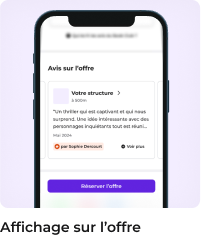
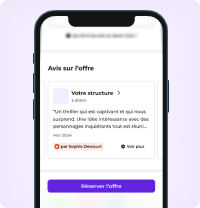
(PC-43101)[PRO] feat: offer recommendation changes.

Changed region(s): [[0.0, 0.0288, 0.87, 1.0], [0.24, 0.2596, 0.48, 0.3462]]

diff --git a/pro/src/pages/IndividualOffers/IndividualOffersContainer/components/IndividualOfferColumns/components/IndividualActionsCells/IndividualActionsCells.tsx b/pro/src/pages/IndividualOffers/IndividualOffersContainer/components/IndividualOfferColumns/components/IndividualActionsCells/IndividualActionsCells.tsx
@@ -1,3 +1,4 @@
+import { getOfferEnhancementCardsVisibility } from 'commons/core/Offers/utils/getOfferEnhancementCardsVisibility'
 import { useActiveFeature } from 'commons/hooks/useActiveFeature'
[1 lines of base64/hex data omitted]
 import { Button } from 'design-system/Button/Button'
@@ -99,6 +100,9 @@ export const IndividualActionsCells = ({
     setIsConfirmDialogReplaceHeadlineOfferOpen(false)
   }, [])
 
+  const { shouldDisplayRecommendationCard, shouldDisplayHeadlineCard } =
+    getOfferEnhancementCardsVisibility(offer)
+
   const apiFilters = computeIndividualApiFilters({
     finalSearchFilters,
     selectedVenueId: selectedPartnerVenue.id,
@@ -135,6 +139,12 @@ export const IndividualActionsCells = ({
   }
 
   async function onClickAddHeadlineOffer() {
+    if (!shouldDisplayHeadlineCard) {
+      snackBar.error(
+        'Seules les offres au statut « Publié » peuvent être mises à la une.'
+      )
+      return
+    }
     if (isHeadline) {
       await removeHeadlineOffer({ offerId: offer.id })
     } else if (offer.thumbUrl) {
@@ -152,11 +162,24 @@ export const IndividualActionsCells = ({
   }
 
   function onClickAddProAdvice() {
-    logEvent(EngagementEvents.HAS_MADE_RECOMMENDATION, {
-      offerId: offer.id,
-      action: offer.hasProAdvice ? 'edited' : 'started',
-    })
-    setIsProAdviceOpen(true)
+    if (!shouldDisplayRecommendationCard) {
+      let errorMessage =
+        'Votre offre doit être publiée pour faire cette action.'
+      if (offer.status === OfferStatus.REJECTED) {
+        errorMessage =
+          "Offre non-conforme : aucune modification n'est possible dans ce cas. Veuillez créer une nouvelle offre."
+      } else if (offer.status === OfferStatus.PENDING) {
+        errorMessage =
+          "Offre en cours de vérification : aucune modification n'est possible durant la vérification d’éligibilité."
+      }
+      snackBar.error(errorMessage)
+    } else {
+      logEvent(EngagementEvents.HAS_MADE_RECOMMENDATION, {
+        offerId: offer.id,
+        action: offer.hasProAdvice ? 'edited' : 'started',
+      })
+      setIsProAdviceOpen(true)
+    }
   }
 
   const isActive = offer.status === OfferStatus.ACTIVE
@@ -186,7 +209,11 @@ export const IndividualActionsCells = ({
               color={isHeadline ? ButtonColor.BRAND : ButtonColor.NEUTRAL}
               variant={ButtonVariant.SECONDARY}
               size={ButtonSize.SMALL}
-              icon={isHeadline ? fullStarIcon : strokeStarIcon}
+              icon={
+                isHeadline && shouldDisplayHeadlineCard
+                  ? fullStarIcon
+                  : strokeStarIcon
+              }
               onClick={onClickAddHeadlineOffer}
               tooltip={
                 isHeadline ? 'Ne plus mettre à la une' : 'Mettre à la une'
@@ -195,7 +222,11 @@ export const IndividualActionsCells = ({
             />
 
             <OfferRecommendationDialogBuilder
-              onOpenChange={setIsProAdviceOpen}
+              onOpenChange={() => {
+                if (shouldDisplayRecommendationCard) {
+                  setIsProAdviceOpen(!isProAdviceOpen)
+                }
+              }}
               offerId={offer.id}
               isOpen={isProAdviceOpen}
               proAdvice={null}
@@ -212,7 +243,11 @@ export const IndividualActionsCells = ({
                 }
                 variant={ButtonVariant.SECONDARY}
                 size={ButtonSize.SMALL}
-                icon={offer.hasProAdvice ? fullMessageIcon : strokeMessageIcon}
+                icon={
+                  offer.hasProAdvice && shouldDisplayRecommendationCard
+                    ? fullMessageIcon
+                    : strokeMessageIcon
+                }
                 onClick={onClickAddProAdvice}
                 tooltip={
                   offer.hasProAdvice

diff --git a/pro/src/components/IndividualOfferLayout/components/OfferRecommendationCard/OfferRecommendationForm.tsx b/pro/src/components/IndividualOfferLayout/components/OfferRecommendationCard/OfferRecommendationForm.tsx
@@ -70,6 +70,7 @@ export function OfferRecommendationForm({
 
   const form = useForm<OfferRecommendationFormValues>({
     defaultValues,
+    values: defaultValues,
     resolver: yupResolver(validationSchema),
     mode: 'onChange',
   })
@@ -147,10 +148,15 @@ export function OfferRecommendationForm({
               sur l’application.
             </p>
             <div className={styles['recommandation-header']}>
-              <img
-                src={phoneImg}
-                alt="Téléphone affichant un exemple de recommandation sur l'application jeunes"
-              />
+              <div>
+                <img src={phoneImg} alt="Affichage sur l’offre" />
+                <span
+                  aria-hidden={true}
+                  className={styles['recommandation-header-image-desc']}
+                >
+                  Affichage sur l’offre
+                </span>
+              </div>
               <div className={styles['recommandation-header-side']}>
                 <p className={styles['recommandation-header-title']}>
                   Exemples issus d’autres offres de la même catégorie :

diff --git a/pro/src/ui-kit/Table/Table.tsx b/pro/src/ui-kit/Table/Table.tsx
@@ -39,6 +39,7 @@ export interface Column<T> {
   id: string
   label: string
   sortable?: boolean
+  centerHeader?: boolean
   ordererField?: keyof T | ((row: T) => React.ReactNode)
   render?: (row: T) => React.ReactNode
   headerColSpan?: number
@@ -244,6 +245,7 @@ export function Table<
                   key={`col-${col.id}`}
                   className={classNames(styles['table-header-th'], {
                     [styles['table-header-sortable-th']]: col.sortable,
+                    [styles['table-header-center-th']]: col.centerHeader,
                   })}
                 >
                   {col.sortable ? (

diff --git a/pro/src/commons/core/Offers/utils/getOfferEnhancementCardsVisibility.ts b/pro/src/commons/core/Offers/utils/getOfferEnhancementCardsVisibility.ts
@@ -1,5 +1,6 @@
 import {
   type GetIndividualOfferResponseModel,
+  type ListOffersOfferResponseModel,
   OfferStatus,
 } from '@/apiClient/v1'
 
@@ -10,7 +11,7 @@ type OfferEnhancementCardsVisibility = {
 }
 
 export const getOfferEnhancementCardsVisibility = (
-  offer: GetIndividualOfferResponseModel | null
+  offer: GetIndividualOfferResponseModel | ListOffersOfferResponseModel | null
 ): OfferEnhancementCardsVisibility => {
   if (!offer) {
     return {

diff --git a/pro/src/pages/IndividualOffers/IndividualOffersContainer/components/IndividualOfferColumns/IndividualOfferColumns.tsx b/pro/src/pages/IndividualOffers/IndividualOffersContainer/components/IndividualOfferColumns/IndividualOfferColumns.tsx
@@ -89,6 +89,7 @@ export function getIndividualOfferColumns({
     columns.push({
       id: 'actions',
       label: 'Actions',
+      centerHeader: true,
       render: (offer) => {
         const offerLink = getIndividualOfferUrl({
           offerId: offer.id,

diff --git a/pro/src/ui-kit/Table/Table.module.scss b/pro/src/ui-kit/Table/Table.module.scss
@@ -92,6 +92,10 @@
     text-align: left;
     white-space: nowrap;
   }
+
+  &-center-th {
+    text-align: center;
+  }
 }
 
 .table-select-all {

diff --git a/pro/src/components/IndividualOfferLayout/components/OfferRecommendationCard/OfferRecommendationForm.module.scss b/pro/src/components/IndividualOfferLayout/components/OfferRecommendationCard/OfferRecommendationForm.module.scss
@@ -81,4 +81,8 @@
       margin-bottom: rem.torem(36px);
     }
   }
+
+  &-image-desc {
+    @include fonts.body-accent-s;
+  }
 }
